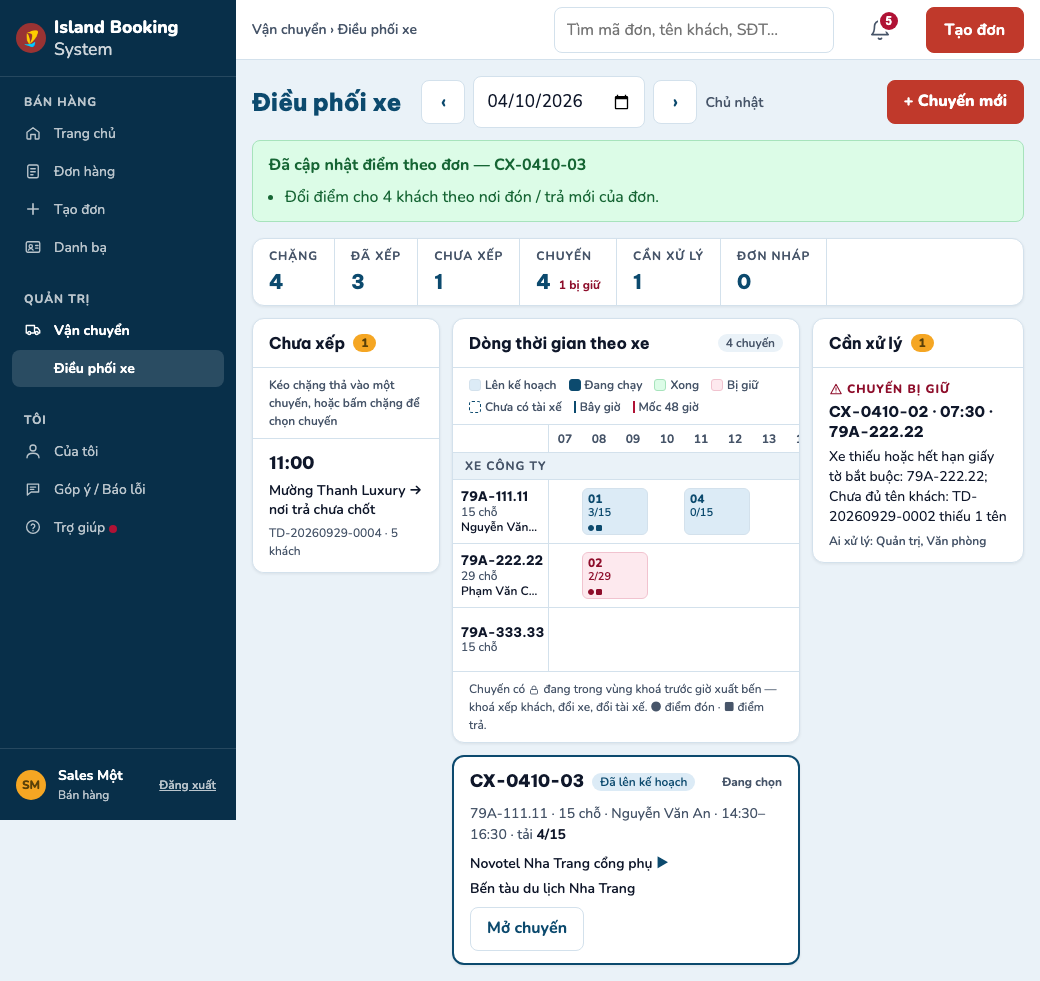
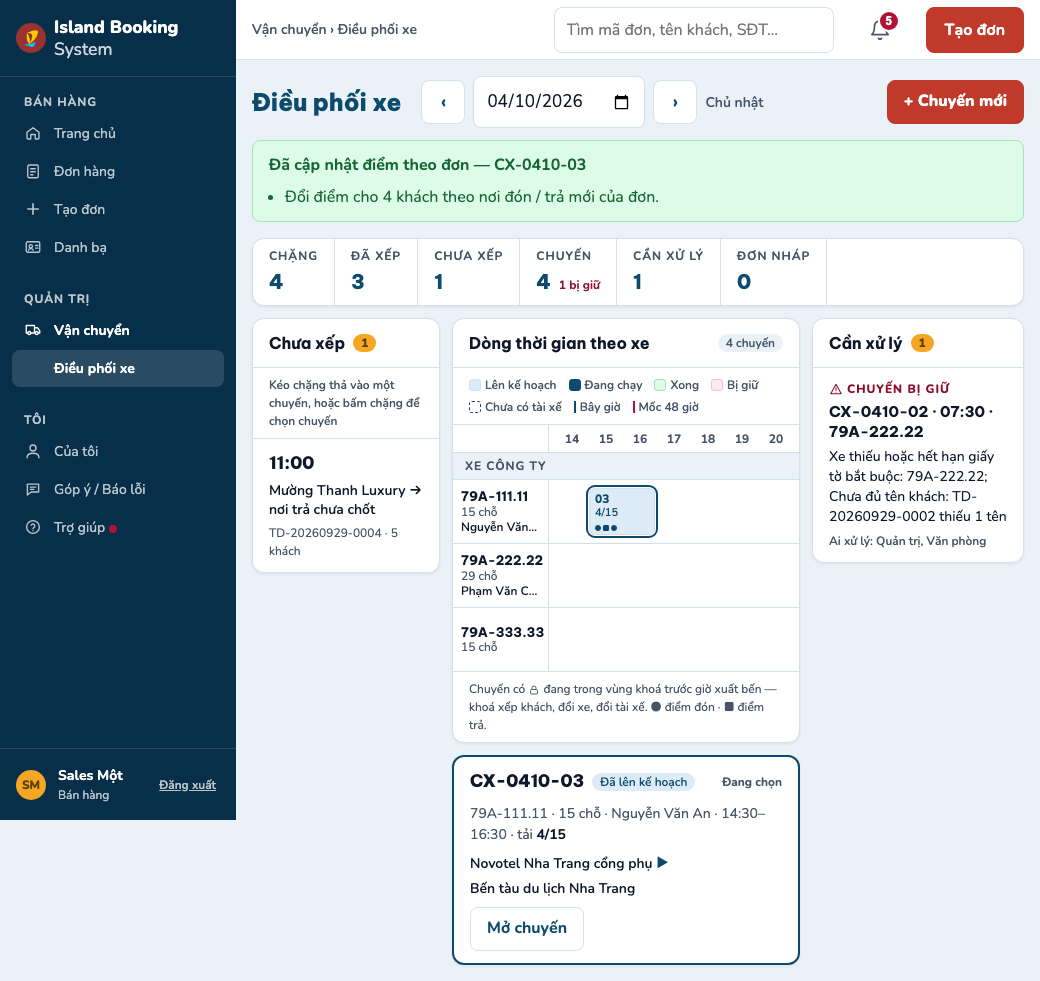
B1 sửa: dòng thời gian giữ chỗ cuộn khi vẽ lại; tài liệu vòng 3
Vì sao: bấm một khối chuyến (và sau khi xếp / cập nhật điểm) vẽ lại cột Xe rồi tự
cuộn về chuyến đầu ngày — ở 390 và ở cột giữa ~350px của khổ 1040, chuyến vừa bấm
văng khỏi khung. Kịch bản bấm bằng JS nên không thấy (người cố vấn chỉ ra).
- Giữ scrollLeft qua các lần vẽ lại; chỉ tự cuộn tới chuyến sớm nhất MỘT lần mỗi ngày
  xem, và chỉ khi khung đang hiện (thẻ "Xe" ở điện thoại thử lại lúc mở thẻ);
  focus({ preventScroll: true }).
- dieu-phoi-smoke bước 2: cuộn tới khối 14:30, bấm, khối vẫn trong khung — đỏ với
  hành vi cũ (P16), xanh sau sửa; bước 8: trang Tôi của Kế toán (VẬN CHUYỂN chỉ
  "Điều phối xe", #links-top không rỗng).
- Tài liệu: SYSTEM-DESIGN §9 (ba trang + dieu-phoi-man.ts), README bằng chứng, đề
  xuất luật mục 5 (ba dòng bảng kịch bản, số mục menu 17 / 20), nhật ký giao diện
  mục 9 (lệch bản vẽ D-B1-*, D-B2-*, câu hỏi Q-B-6…11, P16, kết quả; v1-bao-tri
  đỏ sẵn từ ADR-0019 — không do vòng 3).

Tự khai, chưa có người kiểm độc lập.

Claude-Session: https://claude.ai/code/session_012uzHHEgA3ZBQkvhnpB7ynZ

Changed region(s): [[0.5538, 0.4893, 0.7385, 0.6116], [0.5231, 0.4281, 0.6462, 0.4587], [0.7077, 0.4281, 0.7385, 0.4587]]

diff --git a/web/dieu-phoi.ts b/web/dieu-phoi.ts
@@ -134,6 +134,7 @@ function chonTab(k: typeof tab): void {
     b.tabIndex = on ? 0 : -1;
   }
   for (const id of ["chua-xep", "xe", "can-xu-ly"]) byId(`dp-cot-${id}`).classList.toggle("is-active", id === k);
+  if (k === "xe") requestAnimationFrame(cuonDau);
 }
 
 const dauCot = (tieuDe: string, n: number | null, them: Child = null) =>
@@ -175,15 +176,10 @@ function veXe(): void {
   tl.style.setProperty("--dp-so-gio", String(hinh.gioCuoi - hinh.gioDau));
   const thuoc = h("div", { class: "dp-tl-thuoc" }, h("div", { class: "dp-tl-nhan" }), h("div", { class: "dp-tl-duong" }, ...hinh.nhanGio.map((g) => viTri(h("span", { class: "dp-tl-gio" }, g.nhan), g.x))));
   append(tl, [thuoc]);
-  let dau: HTMLElement | null = null;
   for (const n of hinh.nhom) {
     append(tl, [h("div", { class: "dp-tl-nhom" }, h("span", { class: "dp-tl-nhom-t" }, n.tieuDe))]);
     for (const hang of n.hang) {
-      const duong = h("div", { class: "dp-tl-duong" }, ...hang.khoi.map((k) => {
-        const el = khoi(k);
-        dau ??= el;
-        return el;
-      }));
+      const duong = h("div", { class: "dp-tl-duong" }, ...hang.khoi.map(khoi));
       append(tl, [h("div", { class: "dp-tl-hang" }, nhanHang(hang), duong)]);
     }
   }
@@ -203,10 +199,22 @@ function veXe(): void {
     cuon,
     h("div", { class: "dp-tl-note" }, "Chuyến có ", icon("lock", 12), " đang trong vùng khoá trước giờ xuất bến — khoá xếp khách, đổi xe, đổi tài xế. ● điểm đón · ■ điểm trả."),
   );
+  // Vẽ lại (bấm khối, sau khi xếp / cập nhật) GIỮ chỗ đang cuộn; chỉ tự cuộn tới chuyến đầu tiên MỘT lần mỗi ngày xem — và chỉ khi khung đang hiện (thẻ "Xe"
+  // ở điện thoại có thể đang ẩn: thử lại lúc mở thẻ).
+  const cu = cotXe.querySelector<HTMLElement>(".dp-tl-cuon");
+  const giu = cu && daCuon === ngay ? cu.scrollLeft : null;
   replaceChildren(cotXe, the, theChon());
-  requestAnimationFrame(() => {
-    if (dau) cuon.scrollLeft = Math.max(0, dau.offsetLeft - dau.offsetWidth / 2);
-  });
+  if (giu !== null) cuon.scrollLeft = giu;
+  else requestAnimationFrame(cuonDau);
+}
+/** Ngày đã tự cuộn tới chuyến đầu tiên (null = chưa). */
+let daCuon: string | null = null;
+function cuonDau(): void {
+  const cuon = cotXe.querySelector<HTMLElement>(".dp-tl-cuon");
+  if (daCuon === ngay || !cuon || cuon.clientWidth === 0) return;
+  const dau = [...cuon.querySelectorAll<HTMLElement>(".dp-khoi")].sort((a, b) => a.offsetLeft - b.offsetLeft)[0]; // chuyến sớm nhất trong ngày
+  if (dau) cuon.scrollLeft = Math.max(0, dau.offsetLeft - dau.offsetWidth / 2);
+  daCuon = ngay;
 }
 
 function viTri(el: HTMLElement, x: number): HTMLElement {
@@ -230,7 +238,7 @@ function khoi(k: KhoiChuyen): HTMLElement {
   el.addEventListener("click", () => {
     chon = chon === k.id ? null : k.id;
     veXe();
-    document.querySelector<HTMLElement>(`.dp-khoi[data-chuyen="${k.id}"]`)?.focus();
+    document.querySelector<HTMLElement>(`.dp-khoi[data-chuyen="${k.id}"]`)?.focus({ preventScroll: true });
   });
   if (co.dieuPhoi && c.trangThai === "PLANNED") {
     el.addEventListener("dragover", (e) => {

diff --git a/docs/superpowers/plans/2026-09-29-adr-0049-giao-dien-nhat-ky.md b/docs/superpowers/plans/2026-09-29-adr-0049-giao-dien-nhat-ky.md
@@ -224,3 +224,81 @@ Chạy bằng `chay-chrome.sh` (thư mục tạm; `OUT` trỏ ra ngoài repo, `A
 Mọi kịch bản Chrome trong bảng `web/CLAUDE.md` mà Phần B chạm tới nay đều xanh trên đỉnh nhánh — không còn kịch bản "đỏ sẵn" nào trong nhóm này.
 
 **Chờ điều phối:** R-P23 ("ai lưu" trong lịch sử bản chính sách) — làm phần hiển thị khi có sha; B1–B6 khi có A13 / A15.
+
+## 9. Vòng 3 (29/9 đêm) — B1–B3 phần VĂN PHÒNG
+
+### 9.1 Lệnh điều phối (ghi nguyên ý)
+Gộp máy chủ `857f54c` (A13 `18f2a50`: chín route văn phòng lich / chuyen / chuyen/:id / PUT / phan-bo / rut / doi / huy / cap-nhat-diem, ô trip.view / dispatch / override, `nhatKy[].nguoiBam`; R-P23 `nguoiLuu`); R-P23 hiện "ai lưu" (null → không dòng); dựng B1, B2, B3 cho văn phòng theo bản vẽ + bản đối chiếu + khối thuần; menu "Vận chuyển" hiện khi `vehicle.manage` HOẶC `trip.view`, thêm "Điều phối xe" (Q-B-4). Bấm thay / "xảy ra lúc" / nút tiến độ chờ A15 — dựng chỗ, chưa nối. "Giờ hẹn đổi — gọi báo khách" + "Đã gọi báo" (ADR-0051) KHÔNG làm vòng này (Task B-GB); thẻ "Giờ xe tới muộn hơn giờ hẹn" không có nút "Đã gọi báo" (Q-GB-1 = b). Mỗi màn: Chrome đỏ trước / xanh sau, 390 + 1040, ba vai, ảnh, commit riêng. Lời nhắn sau: R-P12/13/16 đã có trong A13 — màn dùng `khoaMoc`, KHÔNG tự tính vùng khoá theo giờ hiện tại; `/chuyen/:id` có `diem[].lechDon`. Lời nhắn cuối: A15 đã có `1bf2960` — làm SAU khi B1–B3 commit sạch (mục 10). Lời nhắn sau đó: điểm gộp đổi thành `c98b0e9` (chứa `1bf2960`, e2e `370b4a2`, A14 `520ebcd`, A-GB / ADR-0051 + migration 0043); thứ tự: B1–B3 → gộp `c98b0e9` → bấm thay + B4–B6 + Q5 trang đầu tài xế → B-GB (nhắc gọi báo khách: DTO ở `src/shared/contracts.ts` + hằng chữ ở `src/shared/goi-bao.ts` của `c98b0e9`; "Đã gọi báo" chỉ khi `baoDuoc`, "Bỏ đánh dấu" chỉ khi `boDuoc`; 409 `khong_con_can_goi` / `gio_hen_vua_doi` → "Giờ hẹn vừa đổi hoặc đã có người báo — tải lại." + Tải lại; tài xế không thấy gì; không SĐT khách ở danh sách nhắc; Chrome ba vai; P16 bỏ điều kiện `baoDuoc` → bước Kế toán đỏ). Điều phối hỏi trạng thái B1: commit `8666fa4`.
+
+### 9.2 Commit
+| Việc | Commit |
+|---|---|
+| Gộp máy chủ `857f54c` | `61c53be` |
+| R-P23 "ai lưu" | `8764a88` |
+| B3 Tạo / sửa chuyến (+ khối thuần `dieu-phoi-man.ts`, khối UI chung `web/dieu-phoi-ui.ts`, dữ liệu thử `dungDuLieuDieuPhoi`) | `7037b7d` |
+| B2 Chi tiết chuyến | `ca73650` |
+| B1 Điều phối xe + menu (Q-B-4) + sửa kịch bản cũ theo menu | `8666fa4` |
+| B1 sửa: khung dòng thời gian nhảy về chuyến đầu ngày mỗi lần vẽ lại (bấm khối, sau khi xếp / cập nhật) + ca Chrome; trang Tôi của Kế toán; tài liệu vòng 3 | commit "B1 sửa: …" ngay sau `8666fa4` |
+
+### 9.3 Lệch bản vẽ / giả định bề mặt (P8 — đảo ngược được)
+- **D-B2-1** (Chi tiết chuyến): bảng điểm dừng 7 cột của 2a (28 / 44 / 1fr / 60 / 72 / 48 / 118 px) cạnh cột phải 280px chỉ còn ~24px cho cột NƠI ở khổ 1040 (đo trên ảnh lần chạy đầu: tên nơi gãy từng chữ). Dưới 1200px hai thẻ "Điều kiện xuất bến" + "Nhật ký chuyến" xuống dưới bảng (xếp đôi); từ 1200px đúng bố cục 2a. Hoàn tác: một khối `@media` trong `public/app.css`.
+- **D-B1-1** (dòng thời gian): KHÔNG tô "vùng nền nhạt từ bây giờ tới mốc" của bản vẽ — lệnh điều phối "không tự tính vùng khoá theo giờ hiện tại". Khối chuyến mang ổ khoá theo `khoaMoc.dangKhoa`; vạch "Bây giờ" và vạch mốc (R-P12) vẫn vẽ để nhìn; câu chú thích đổi thành "Chuyến có 🔒 đang trong vùng khoá…".
+- **D-B1-2**: thẻ chặng là NÚT mở hộp "Xếp vào chuyến" (chọn chuyến lên kế hoạch theo giờ, số khách — ít hơn là tách đoàn), máy tính thêm kéo thả vào khối chuyến (mở cùng hộp, chuyến đã chọn sẵn). Bản vẽ chỉ có câu "Kéo chặng thả vào một chuyến" và nút "Xếp vào chuyến…" ở điện thoại, không vẽ hộp — dựng theo khuôn hộp Phá lệ (1f). Câu gợi ý đổi thành "Kéo chặng thả vào một chuyến, hoặc bấm chặng để chọn chuyến".
+- **D-B1-3**: đầu cột "Cần xử lý" không có nhãn vai ("Quản trị") — đó là chú thích so vai của bản vẽ.
+- **D-B1-4**: mục menu "Điều phối xe" không có huy hiệu số (bản vẽ: 8) — máy chủ chưa có nguồn số (Q-B-10).
+- **D-B1-5**: vị trí khối trên dòng thời gian đặt bằng biến CSS KHÔNG đơn vị (`--dp-x`, `--dp-dai`, `--dp-so-gio` qua `style.setProperty`) — mọi số đo là token (`--dp-gio` 34px / giờ, `--w-dp-tl-nhan` 96px, `--h-dp-tl-hang` 64px…).
+- **D-B1-6**: giữ tiêu đề trang (h1) ở điện thoại (bản vẽ chỉ có tên ở thanh trên) — như B2 / B3 và mọi trang khác.
+- **D-B2-2**: nút Sửa / Huỷ ở điện thoại là lưới hai cột CUỐI trang (bản vẽ 2b), không dính đáy.
+- **B3**: không ô "Ghi chú cho tài xế" (chủ Q1). Câu "cần phá lệ" mốc gắn vào ô đang đổi (Xe trước, rồi Tài xế); tạo mới / dời giờ không bao giờ cần phá lệ mốc (máy chủ quyết — 2.2, 2.3; bước 7 của `chuyen-sua-smoke` khẳng định dời giờ lưu được).
+- **Cần xử lý**: cảnh báo "nơi hẹn khác điểm" của chuyến CHƯA chạy đã bị giữ "nơi đón / trả đã đổi" không thành mục thứ hai (mục chuyến bị giữ đã nói và có nút) — test thuần mới; máy chủ trả cảnh báo này cả cho chuyến PLANNED (thấy khi dò).
+- **Trang Tôi** (Bán hàng, Kế toán): nay có nhóm VẬN CHUYỂN với một dòng "Điều phối xe" — "Danh bạ" chuyển từ `#links` sang `#links-top` như tài khoản Quản trị (khuôn sẵn của 1a).
+
+### 9.4 Chờ A15 — KHÔNG dựng ở vòng này (không để nút chết)
+B2: "Xuất bến thay tài xế", nút tiến độ bấm thay (ô "xảy ra lúc", "Sớm nhất: HH:MM"), "Kết thúc gián đoạn", "Mở màn Xuất bến ›". B1: thẻ chuyến đang chạy (mốc tiến độ, "giờ do văn phòng khai"). Màn chuyến RUNNING / ENDED chưa kiểm được bằng Chrome (dữ liệu thử không chạy chuyến được khi chưa có route A15). Nhánh hiển thị đã có sẵn: dải "Nơi hẹn khác điểm xe" của chuyến đang chạy (B2), "Bản chụp lúc xuất bến", chip "giờ do văn phòng khai" trong nhật ký.
+
+### 9.5 Câu hỏi cho điều phối
+- **Q-B-6**: rút khách (`/rut`), dời khách sang chuyến khác (`/doi`), người đi kèm (`nguoiDiKem`), sắp lại thứ tự điểm / giờ xe tới (`SuaChuyenRequest.diem`) — bản vẽ không vẽ chỗ bấm → CHƯA dựng. Cần bản vẽ, hay dựng theo khuôn sẵn?
+- **Q-B-7**: `TaiXeChonDto` không có hạng GPLX → ô Tài xế không hiện "· hạng D" như bản vẽ 3a; lỗi hạng chỉ hiện sau khi lưu (409). Thêm trường vào DTO?
+- **Q-B-8**: `ChangLichDto` không có cờ "nơi tự gõ" → không hiện được "Nơi tự gõ — mở đơn để xem" (bản vẽ 1a); màn hiện chữ máy chủ trả (đã che dãy số). Giữ vậy?
+- **Q-B-9**: "Chưa có tài xế" — `POST /chuyen` bắt buộc tài xế, nên trạng thái này chỉ có khi tài xế bị gỡ về sau; nhánh hiển thị + nút "Chọn tài xế" đã dựng, chưa kiểm được bằng Chrome.
+- **Q-B-10**: huy hiệu số ở mục "Điều phối xe" (bản vẽ: 8) — cần nguồn số từ máy chủ; chưa làm.
+- **Q-B-11**: hộp "Xếp vào chuyến" (D-B1-2) không có trong bản vẽ — chủ có muốn vẽ lại không?
+
+### 9.6 P16 — quan sát kịch bản mới đỏ thật một lần
+| Kịch bản | Sửa cố ý (build lại) | Đỏ quan sát được | Hoàn nguyên |
+|---|---|---|---|
+| `chuyen-sua-smoke.mjs` | `dieu-phoi-man.ts`: bỏ `TRUNG_GIO_XE` khỏi nhóm ô Giờ kết thúc | bước 3 ✗ ("hết giờ chờ: dải 2 ô"), 11 ✓ / 1 ✗, thoát 1 | sửa lại dòng, `grep -c P16-DOT-BIEN` = 0, build lại |
+| `chuyen-smoke.mjs` | `nhanDiem`: tắt nhánh `lechDon` | bước 1 ✗ (điểm không "Lệch đơn"), 7 ✓ / 1 ✗, thoát 1 | như trên |
+| `dieu-phoi-smoke.mjs` | `thayDieuPhoiXe` hỏi `vehicle.manage` thay `trip.view` | Bán hàng bị từ chối, bảng không dựng → thoát 1. Lần đó chờ "bảng dựng xong" nằm NGOÀI bước nên dòng tổng ghi "OK (0 bước)" dù thoát 1 — đã chuyển mọi lần chờ vào trong bước | như trên |
+| `dieu-phoi-smoke.mjs` bước 2 (ca mới: khung cuộn giữ chỗ) | `web/dieu-phoi.ts`: bỏ giữ `scrollLeft` (hành vi cũ — luôn cuộn về chuyến đầu ngày) | bước 2 ✗ "sau khi bấm (vẽ lại), khối vừa chọn vẫn trong khung", 9 ✓ / 1 ✗, thoát 1 | như trên |
+
+Lỗi thật tìm ra nhờ người cố vấn (không phải kịch bản): bấm một khối gọi vẽ lại cột Xe → khung cuộn dựng mới rồi `requestAnimationFrame` kéo về chuyến đầu ngày — ở 390 và ở cột giữa ~350px của khổ 1040, bấm chuyến 14:30 là chuyến đó văng khỏi khung; kịch bản bấm bằng JS nên không thấy. Sửa: giữ `scrollLeft` qua các lần vẽ lại, chỉ tự cuộn một lần mỗi ngày xem (và chỉ khi khung đang hiện — thẻ "Xe" ở điện thoại thử lại lúc mở thẻ); `focus({ preventScroll: true })`.
+
+### 9.7 Kịch bản cũ sửa theo menu mới (B1, Q-B-4)
+`trang-chu-smoke.mjs` (Quản trị 17 mục — `ADMIN_NAV` thêm "Điều phối xe"; khung `/staff`, `/order-form` 17; `/audit` Toàn quyền 20); `xe-smoke.mjs` bước 1 (mục con đầu "Điều phối xe"), 2 (dòng "Điều phối xe" đầu nhóm VẬN CHUYỂN của trang Tôi), 3 (Bán hàng nay có mục cha + đúng một mục con / một dòng "Điều phối xe", vẫn không Xe / Sắp hết hạn, không gọi `/api/van-chuyen` ở trang Tôi); `danh-muc-giay-to-smoke.mjs` bước c, d (thêm "Điều phối xe"), j (Bán hàng: nhóm QUẢN TRỊ chỉ "Vận chuyển › Điều phối xe"); `chinh-sach-dieu-phoi-smoke.mjs` bước 1 (Toàn quyền: "Điều phối xe" đầu), 12 (Bán hàng: `["Điều phối xe"]`). Kịch bản tài xế (`tai-xe-trang-dau-smoke`, `tai-xe-doi-tac-smoke`) không đổi: tài xế không có ô trip.view không ngữ cảnh.
+
+**Đỏ sẵn, KHÔNG do vòng 3, không sửa (ngoài phạm vi — báo điều phối):** `docs/evidence/2026-09-21-v1-0/kich-ban/v1-bao-tri.mjs` 15 bước ✗ từ bước đầu ("hết giờ chờ: mục bảo trì hiện"). Nguyên nhân gốc: kịch bản dùng `OWNER = ACCOUNTS.admin` (chỉ ADMIN) làm "chủ", còn `canToggle` của `GET /api/maintenance` từ ADR-0019 / ADR-0038 (26–27/9) cần ô `settings.ops` (chỉ Toàn quyền) — `src/modules/maintenance/index.ts:46`. `dot-c-smoke.mjs` đã đổi sang tài khoản ADMIN + SUPER_ADMIN vì đúng lý do này (chú thích dòng 20 của nó). Vòng 3 không đụng phần bảo trì của `web/account.ts` / `web/shell.ts`. Sửa = đổi `OWNER` sang tài khoản có SUPER_ADMIN (như `dot-c-smoke`) — chờ điều phối giao.
+
+### 9.8 Kết quả cuối vòng 3 (tự khai, chưa có người kiểm độc lập)
+| Lệnh | Kết quả |
+|---|---|
+| `node --test src/shared/dieu-phoi-man.test.ts` | 19/19 (13 của B3 + 6 mới của B1, đỏ trước xanh sau) |
+| `npm run typecheck` | 0 |
+| `npm run build:web` | 0 |
+| quét CSS khối PWA (biểu thức của `tests/e2e/pwa.mjs`) | sạch |
+| `chuyen-sua-smoke.mjs` | 12/12 |
+| `chuyen-smoke.mjs` | 8/8 |
+| `dieu-phoi-smoke.mjs` | xem dòng chạy lại sau sửa khung cuộn (mục 9.9) |
+| lô hồi quy (trên `8666fa4`): `trang-chu-smoke`, `chinh-sach-dieu-phoi-smoke`, `dot-c-smoke`, `help-smoke`, `tai-xe-trang-dau-smoke`, `tai-xe-doi-tac-smoke`, `giay-to-cua-toi-smoke`, `sap-het-han-smoke`, `dieu-phoi-smoke`, `chuyen-smoke`, `chuyen-sua-smoke` | thoát 0 cả 11 |
+| cùng lô: `xe-smoke`, `danh-muc-giay-to-smoke` | thoát 1 — đỏ ĐÚNG ở các bước lúc đó chưa sửa theo menu mới (`xe-smoke` bước 1: mục con "Điều phối xe" chen trước "Xe"; `danh-muc-giay-to-smoke` bước d như vậy, bước j: Bán hàng nay có nhóm QUẢN TRỊ); đã sửa trong `8666fa4`, chạy lại ở mục 9.9 |
+| cùng lô: `v1-bao-tri.mjs` | thoát 1 — đỏ sẵn, xem trên |
+
+### 9.9 Chạy lại sau sửa khung cuộn + trang Tôi Kế toán (đỉnh trước khi gộp máy chủ)
+| Lệnh | Kết quả |
+|---|---|
+| `dieu-phoi-smoke.mjs` | 10/10 (bước 2 có ca khung cuộn giữ chỗ; bước 8 có trang Tôi của Kế toán) |
+| `xe-smoke.mjs` | 13/13 |
+| `danh-muc-giay-to-smoke.mjs` | 10/10 |
+| `npm run test:e2e -- pwa` | 2/2 — "29 trang" |
+| `npm test` | 1758/1759 — bài đỏ DUY NHẤT là `guard-remote: lệnh dị dạng không làm hook quá giờ` (đo thời gian của hook; máy đang có phiên khác chạy). Chạy riêng `node --test src/claude-guard.test.ts`: 11/11 (đúng như điều phối báo — bài đo CPU khi máy bận) |
+| `npm run typecheck` | 0 |

diff --git a/docs/evidence/2026-09-29-adr-0049/README.md b/docs/evidence/2026-09-29-adr-0049/README.md
@@ -4,7 +4,7 @@
 - **Người chụp:** người thi công Phần B (chưa phải kiểm độc lập). Mọi SĐT, tên, biển số là **GIẢ**.
 - **Giới hạn:** Chrome headless trên máy phát triển (390×844 giả lập cảm ứng, 1040×820), D1 tạm, không mạng ngoài. **Chưa thử iPhone thật**, chưa thử dữ liệu thật trên production.
 - **Nhật ký thi công giao diện** (đỏ trước, xanh sau, P16 từng kịch bản, lệch bản vẽ, câu hỏi): `docs/superpowers/plans/2026-09-29-adr-0049-giao-dien-nhat-ky.md`.
-- **Chưa có:** B1–B6 (Điều phối xe, Chi tiết chuyến, Tạo / sửa chuyến, Cuốc của tôi, Chuyến đang chạy, Xuất bến) — chờ route A13 / A15 của máy chủ.
+- **Đã có (vòng 3):** B1 Điều phối xe, B2 Chi tiết chuyến, B3 Tạo / sửa chuyến — phần VĂN PHÒNG. **Chưa có:** bấm thay / nút tiến độ / kết thúc gián đoạn trên B2 (chờ A15), B4–B6 (Cuốc của tôi, Chuyến đang chạy, Xuất bến), mục "Giờ hẹn đổi — gọi báo khách" (ADR-0051, Task B-GB).
 
 ## Cách chạy
 
@@ -23,9 +23,12 @@ AXE_JS=<…/axe.min.js> CHROME_BIN=docs/evidence/2026-09-20-a2/kich-ban/chrome-w
 | `chinh-sach-dieu-phoi-smoke.mjs` | B8 — V13 | 14 | Toàn quyền 1040: bốn ô theo bản gieo (giờ / phút), công tắc đủ danh sách bật, hợp đồng khoá tắt, hai điều kiện gieo "Kiểm định — mọi xe", "Bảo hiểm trách nhiệm dân sự — mọi xe", không ô ngày, không "Đang soạn" (chủ Q3), thanh bên có "Chính sách điều phối" + "Lý do điều phối", không "Điều phối xe"; ô ngoài khoảng (F 1–1440, mốc 0 / 49 giờ) → câu lời thường, không gửi; không đổi gì → không lưu; lưu bản mới → thân đúng năm khoá theo phút, lịch sử hai bản khác nhau ở ô F; trang Điều kiện xuất bến (thêm / đóng điều kiện, đổi hạng D1); 390 (lịch sử trong bảng trượt, nút dính đáy, ô ≥ 16px); trang Tôi hai dòng mới; Quản trị: năm nhóm lý do (không "Đặt gấp", "Bỏ chặng"), thêm (mã sinh từ nhãn, trùng → hậu tố), sửa, ngưng; mở thẳng trang chính sách → câu từ chối; 390 "đang thêm" (đếm /80); Bán hàng không có mục nào, mở thẳng bị từ chối; R-P22: lý do hệ thống "Không còn khách ở điểm" không có nút "Ngưng" (có ghi chú), trang giả lập dữ liệu cũ bấm Ngưng → 409 `ly_do_he_thong` → câu lời thường (bước 9b); axe; không lỗi console |
 | `dat-gap-smoke.mjs` | B7 — V12 | 12 | Mốc đặt 48 giờ bằng route chính sách (chặng đón ngày mai luôn dưới mốc). Bán hàng: biểu mẫu CHƯA lưu gọi `GET /api/orders/moc-toi-thieu`, dải cảnh báo 7b, đổi ngày thì hết / hiện lại; lưu nháp được; trang đơn khoá "Xác nhận đơn" + "Cần Quản trị duyệt đặt gấp"; 409 khi trang cũ → dải "Còn chặng đón dưới mốc…" có dòng từng chặng; đơn đã đặt gấp: nhãn ĐỦ (văn phòng — H4); sửa chuyến dưới mốc → 409, không khung. Quản trị: nút + khung Đặt gấp (bốn lý do từ `LY_DO_DAT_GAP`, thiếu lý do → câu lỗi, ghi chú /120), duyệt → nhãn 7c, xác nhận được; sửa chuyến dưới mốc → khung trong bảng, gửi lại kèm `datGap`; biểu mẫu CHƯA lưu (390) "Duyệt đặt gấp" = lưu nháp rồi đặt gấp. Đối tác: chỉ "Đặt gấp — Quản trị đã duyệt" ở khối dịch vụ; **bước 10b — bài canh R-P21**: Lịch sử đơn của Đối tác không có nhãn lý do / tên người duyệt (đỏ thật trước khi gộp máy chủ `df32e83`, xanh sau). axe; không lỗi console |
 | `moc-chua-co-smoke.mjs` | B7 — 503 | 6 | "Chưa có chính sách" dựng trên D1 TẠM của kịch bản (DROP TRIGGER + DELETE bảng chính sách — không sửa máy chủ): biểu mẫu không cảnh báo mốc, Lưu nháp có giờ đón → 503 → dải đỏ câu máy chủ + dòng việc cần làm; trang đơn không khoá Xác nhận, bấm → 503 (1040 + 390); bảng sửa chuyến → 503, không khung Đặt gấp; Toàn quyền lưu bản chính sách đầu tiên từ trạng thái rỗng → mọi thứ chạy lại |
+| `chuyen-sua-smoke.mjs` | B3 — V3 | 12 | Dữ liệu thử chung `dungDuLieuDieuPhoi` (`dp-lib.mjs`: 3 xe, 3 tài xế, 5 đơn, 4 chuyến, mốc 48 giờ — mọi thứ qua route thật). Bán hàng 1040: tiêu đề "Chuyến mới · dd/mm", bốn ô (KHÔNG ô ghi chú — Q1), xe bảo dưỡng không chọn được, tài xế theo nhóm; Lưu khi trống → bốn câu dưới bốn ô, không gửi; 3a: hạng bằng dưới Tài xế + trùng giờ dưới Giờ kết thúc + cột phải tô đỏ chuyến trùng; nghỉ thiếu → câu dưới Giờ bắt đầu, không hộp phá lệ; tạo được → sang chi tiết; chuyến đang khoá: đổi tài xế → câu "cần Quản trị phá lệ", dời giờ thì lưu được (2.3), "Chưa đổi gì"; 390 một cột + nút dính đáy. Quản trị 390 (3b): đổi tài xế chuyến đang khoá → hộp "Phá lệ" → gửi lại kèm `phaLe` (requestId mới); 1040: nghỉ thiếu → `nghiPhaLe`. Kế toán: câu từ chối, không gọi API. axe; không lỗi console |
+| `chuyen-smoke.mjs` | B2 — V2 | 8 | Bán hàng 1040: chuyến bị giữ "nơi đón / trả đã đổi" (dải + nút, dải bốn ô, điểm "Lệch đơn", điều kiện xuất bến "1 chưa đạt" kèm ai xử lý, nhật ký; KHÔNG nút chờ A15); chuyến bị người khác sửa → câu chung + "Tải lại" (H10) → cập nhật được, hết "Lệch đơn"; huỷ chuyến 3 khách → khách về "Chưa xếp" (2.12); chuyến đang khoá có khách → Bán hàng thấy câu "cần Quản trị phá lệ" (H17). 390: dòng tóm tắt, điểm dạng vòng số, nút cuối trang. Quản trị: huỷ chuyến đang khoá → hộp Phá lệ → gửi lại kèm `phaLe`, nhật ký có "phá lệ: …". Kế toán: không nút nào. axe; không lỗi console |
+| `dieu-phoi-smoke.mjs` | B1 — V1 | 10 | Bán hàng 1040: đầu trang, dải số liệu, ba cột, menu "Vận chuyển › Điều phối xe" (chỉ một mục con), không nút Gọi / Đã gọi báo / Phá lệ; bấm khối → thẻ đang chọn + "Cập nhật điểm theo đơn"; bấm thẻ chặng → hộp "Xếp vào chuyến" (chỉ chuyến lên kế hoạch, theo giờ), tách đoàn 3/5; kéo thả phần còn lại vào khối chuyến (DragEvent + DataTransfer); ngày trong vùng khoá: "Quá mốc" + dòng khoá, khối có ổ khoá theo `khoaMoc`, xếp → câu "cần Quản trị phá lệ". 390: trang Tôi có dòng "Điều phối xe"; ba thẻ (tablist, phím mũi tên), dòng thời gian cuộn ngang trong thẻ. Quản trị: menu đủ mục, xếp vào chuyến đang khoá → hộp Phá lệ → `phaLe`. Kế toán: "Chỉ xem", không nút, thẻ chọn chỉ "Mở chuyến". axe; không lỗi console |
 | `nhat-ky-loc-smoke.mjs` | (Phần A) | — | bộ lọc Nhật ký nhóm "Điều phối xe" — của người thi công máy chủ |
 
-Kịch bản cũ đã sửa theo Phần B: `docs/evidence/2026-09-28-van-chuyen-1a/kich-ban/xe-smoke.mjs` (bước 2) và `danh-muc-giay-to-smoke.mjs` (bước c) — nhóm VẬN CHUYỂN của Quản trị có thêm "Lý do điều phối"; `docs/evidence/2026-09-23-trang-chu-moi/kich-ban/trang-chu-smoke.mjs` — vòng 2 làm xanh: xác nhận đơn đón hôm nay qua đường Quản trị đặt gấp (ADR-0049), "Cần xem lại" của Quản trị chỉ dòng Sheet (ADR-0038), thanh bên Quản trị đếm THẬT 16 mục + đúng danh sách nhãn, `/audit` mở bằng Quản trị + Toàn quyền. Cùng vòng: `dot-c-smoke.mjs` (thêm `#push` — ADR-0036), `v1-nguoi-phu-trach.mjs` bước (b) (giao lần đầu cho chính mình = "Tự nhận phụ trách đơn" — ADR-0034 §4.3), `a2-smoke-form.mjs` bước 10g (chờ `#catalog-q`). Nguyên nhân gốc từng cái: nhật ký giao diện mục 8.1.
+Kịch bản cũ đã sửa theo Phần B: `docs/evidence/2026-09-28-van-chuyen-1a/kich-ban/xe-smoke.mjs` (bước 2) và `danh-muc-giay-to-smoke.mjs` (bước c) — nhóm VẬN CHUYỂN của Quản trị có thêm "Lý do điều phối"; `docs/evidence/2026-09-23-trang-chu-moi/kich-ban/trang-chu-smoke.mjs` — vòng 2 làm xanh: xác nhận đơn đón hôm nay qua đường Quản trị đặt gấp (ADR-0049), "Cần xem lại" của Quản trị chỉ dòng Sheet (ADR-0038), thanh bên Quản trị đếm THẬT 16 mục + đúng danh sách nhãn, `/audit` mở bằng Quản trị + Toàn quyền. Cùng vòng: `dot-c-smoke.mjs` (thêm `#push` — ADR-0036), `v1-nguoi-phu-trach.mjs` bước (b) (giao lần đầu cho chính mình = "Tự nhận phụ trách đơn" — ADR-0034 §4.3), `a2-smoke-form.mjs` bước 10g (chờ `#catalog-q`). Nguyên nhân gốc từng cái: nhật ký giao diện mục 8.1. Vòng 3 (B1 thêm mục "Điều phối xe", Q-B-4): `trang-chu-smoke.mjs` (Quản trị 17 mục, `/audit` 20), `xe-smoke.mjs` bước 2 (dòng "Điều phối xe" đầu nhóm VẬN CHUYỂN) và bước 3 (Bán hàng nay có nhóm Vận chuyển chỉ với "Điều phối xe"), `danh-muc-giay-to-smoke.mjs`, `chinh-sach-dieu-phoi-smoke.mjs` bước 1 và 12 — nhật ký giao diện mục 9.
 
 ## Ảnh (`anh/`)
 
@@ -33,4 +36,7 @@ Kịch bản cũ đã sửa theo Phần B: `docs/evidence/2026-09-28-van-chuyen-
 - B8 (R-P22): `b8-ly-do-he-thong-409-may-tinh.png`.
 - B7 (503): `b7-503-bieu-mau-may-tinh.png`, `b7-503-don-may-tinh.png`, `b7-503-don-dien-thoai.png`, `b7-503-sua-chuyen-may-tinh.png`.
 - B7: `b7-bieu-mau-ban-hang-may-tinh.png`, `b7-don-ban-hang-may-tinh.png`, `b7-don-ban-hang-dien-thoai.png`, `b7-dat-gap-quan-tri-may-tinh.png`, `b7-da-dat-gap-quan-tri-may-tinh.png`, `b7-sua-chuyen-dat-gap-may-tinh.png`, `b7-bieu-mau-dat-gap-quan-tri-dien-thoai.png`, `b7-da-dat-gap-dien-thoai.png`, `b7-don-doi-tac-dien-thoai.png`.
+- B3: `b3-tao-chuyen-ba-loi-may-tinh.png`, `b3-sua-chuyen-dien-thoai.png`, `b3-pha-le-dien-thoai.png`, `b3-pha-le-nghi-may-tinh.png`.
+- B2: `b2-chi-tiet-bi-giu-may-tinh.png`, `b2-chi-tiet-sau-cap-nhat-may-tinh.png`, `b2-huy-chuyen-may-tinh.png`, `b2-chi-tiet-bi-giu-dien-thoai.png`, `b2-huy-pha-le-may-tinh.png`, `b2-chi-tiet-ke-toan-may-tinh.png`.
+- B1: `b1-dieu-phoi-ban-hang-may-tinh.png`, `b1-dieu-phoi-chon-chuyen-may-tinh.png`, `b1-xep-vao-chuyen-may-tinh.png`, `b1-dieu-phoi-chua-xep-dien-thoai.png`, `b1-dieu-phoi-xe-dien-thoai.png`, `b1-dieu-phoi-can-xu-ly-dien-thoai.png`, `b1-pha-le-xep-may-tinh.png`, `b1-dieu-phoi-quan-tri-may-tinh.png`, `b1-dieu-phoi-ke-toan-may-tinh.png`.
 - Ảnh cả trang ở 1040 có thanh bên dính lệch chỗ — hiện tượng của cách chụp kéo dài trang (`captureBeyondViewport`), không phải lỗi bố cục.

diff --git a/docs/SYSTEM-DESIGN.md b/docs/SYSTEM-DESIGN.md
@@ -748,6 +748,9 @@ Sáu cột quyền cũ ở trên (`SALES`/`ACCOUNTING`/`ADMIN`/`FIELD`/`PARTNER`
 | Chính sách điều phối | `public/chinh-sach-dieu-phoi.html` | `web/chinh-sach-dieu-phoi.ts` | `GET/POST /api/van-chuyen/chinh-sach-dieu-phoi` (bản mới hiệu lực ngay khi lưu; hai ô theo giờ đổi ra phút), `GET /api/van-chuyen/dieu-kien` (chip điều kiện đang áp), `GET /api/parties/documents/meta` (chỉ khi có điều kiện giấy tờ tài xế); lịch sử bản ở cột phải / bảng trượt (điện thoại) — ADR-0049 B8, bản vẽ `docs/design/van-chuyen-dieu-phoi/project/08` | chỉ `can(staff, "settings.ops")` (Toàn quyền); cổng `office` |
 | Điều kiện xuất bến | `public/dieu-kien-xuat-ben.html` | `web/dieu-kien-xuat-ben.ts` | `GET/POST /api/van-chuyen/dieu-kien`, `POST …/dieu-kien/:id/dong`, `GET/POST /api/van-chuyen/hang-bang`, `GET /api/van-chuyen/meta`, `GET /api/parties/documents/meta` (khuôn danh mục, không bản vẽ; mở từ trang Chính sách điều phối) | chỉ `settings.ops`; cổng `office` |
 | Lý do điều phối | `public/ly-do-dieu-phoi.html` | `web/ly-do-dieu-phoi.ts` | `GET/POST /api/van-chuyen/ly-do`, `PUT /api/van-chuyen/ly-do/:code` (mã lý do mới SINH từ nhãn, trùng → hậu tố) — bản vẽ 08 khung 8c / 8d | `admin.manage` (Quản trị, Toàn quyền); cổng `admin` |
+| Điều phối xe | `public/dieu-phoi.html` | `web/dieu-phoi.ts` (khối chung `web/dieu-phoi-ui.ts`) | `GET /api/van-chuyen/lich?ngay=` (một lần mỗi ngày xem), `POST …/chuyen/:id/phan-bo` (hộp "Xếp vào chuyến": chọn chuyến lên kế hoạch + số khách — ít hơn = tách đoàn; kéo thả thẻ chặng vào khối chuyến mở cùng hộp), `POST …/chuyen/:id/cap-nhat-diem`; 409 `can_pha_le` + `canQuyen` → hộp "Phá lệ" (không nút "Phá lệ" đứng riêng). Ba cột Chưa xếp / Dòng thời gian theo xe (+ thẻ chuyến đang chọn) / Cần xử lý ở máy tính (≥ 900px), ba thẻ ở điện thoại. Khoá theo `khoaMoc` từng chuyến; vạch mốc chỉ để nhìn — ADR-0049 B1, bản vẽ `docs/design/van-chuyen-dieu-phoi/project/01` | `thayDieuPhoiXe` = `can(staff, "trip.view")` (Bán hàng, Kế toán, Quản trị, Toàn quyền; tài xế không); nút xếp theo `trip.dispatch` (Kế toán chỉ xem); cổng `office` |
+| Chi tiết chuyến | `public/chuyen.html` | `web/chuyen.ts` | `GET /api/van-chuyen/chuyen/:id`, `POST …/cap-nhat-diem`, `POST …/huy` (hộp Huỷ chuyến; trong vùng khoá còn khách → hộp Phá lệ); điểm "Lệch đơn" theo cờ `lechDon`, điều kiện xuất bến từ lý do giữ, nhật ký chuyến. CHƯA có (chờ A15): xuất bến thay, nút tiến độ bấm thay, kết thúc gián đoạn — ADR-0049 B2, bản vẽ 02 | `trip.view`; nút Sửa / Huỷ / Cập nhật điểm theo `trip.dispatch`; cổng `office` |
+| Tạo / sửa chuyến | `public/chuyen-sua.html` | `web/chuyen-sua.ts` | `GET /api/van-chuyen/chuyen/:id` hoặc `GET /api/van-chuyen/lich?ngay=` (danh sách xe, tài xế, lý do + cột "<biển số> trong ngày"), `POST /api/van-chuyen/chuyen`, `PUT /api/van-chuyen/chuyen/:id` (chỉ ô đã đổi + `version`); 409 → câu dưới đúng ô (`truongLoiChuyen`); phá lệ mốc / khoảng nghỉ qua hộp Phá lệ khi `canQuyen` — ADR-0049 B3, bản vẽ 03 | `trip.dispatch` (Bán hàng, Quản trị, Toàn quyền); cổng `office` |
 | Địa điểm | `public/locations.html` | `web/locations.ts` | `/api/locations` | admin |
 | Dịch vụ | `public/catalog.html` | `web/catalog.ts` | `/api/catalog/admin`, `/api/catalog/sync`, `/api/catalog/:code*` | admin |
 | Nhân viên | `public/staff.html` | `web/staff.ts` | `/api/staff*` (cột "Đăng nhập gần nhất": `lastLoginAt`, "Chưa đăng nhập" khi `null`) | admin |
@@ -786,6 +789,7 @@ Sáu cột quyền cũ ở trên (`SALES`/`ACCOUNTING`/`ADMIN`/`FIELD`/`PARTNER`
 | `chinh-sach-hien-thi.ts` | hiển thị V13 (ADR-0049 B8): giờ ↔ phút của form chính sách (`docFormChinhSach`, câu lỗi theo đơn vị của ô), tóm tắt / lịch sử bản, nhãn điều kiện xuất bến, năm nhóm lý do lượt 1, mã lý do sinh từ nhãn (`maLyDoMoi`) |
 | `dat-gap-hien-thi.ts` | hiển thị V12 (ADR-0049 B7): câu mốc "Giờ đón cách bây giờ … — dưới mốc …", nhãn đặt gấp theo khoá DTO (`nhanDatGap`), chặng nháp còn phải đặt gấp (`changDuoiMoc` — dùng `kiemMocDat`), cảnh báo trên biểu mẫu chưa lưu, thân lệnh đặt gấp (`LY_DO_DAT_GAP`, ghi chú ≤ 120) |
 | `dieu-phoi-hien-thi.ts` | chữ dùng sẵn cho B1–B6 (CHƯA nối trang): hai giờ "07:31 · ghi lúc 07:45 — Hoa", "Sớm nhất: HH:MM", câu từ chối theo mã `kiemGioXayRa`, dòng điều kiện màn tài xế "(văn phòng lo)", "Ai xử lý: …" |
+| `dieu-phoi-man.ts` | luật hiển thị ba màn văn phòng B1–B3 (ADR-0049): thẻ chặng + cột Chưa xếp (`chipChang`, `changChuaXep`), dải số liệu, màu / nhãn chuyến (`kieuChuyen`), cột "Cần xử lý" (`viecCanXuLy` — chỉ nhãn DTO, nút theo cờ quyền, không "Gọi tài xế" / "Đã gọi báo"), hình dòng thời gian (`hinhDongThoiGian` — khoảng giờ theo dữ liệu, cờ khoá từ `khoaMoc`), câu khoá (`cauKhoaMoc`), điều kiện xuất bến, điểm dừng, nhật ký chuyến, 409 → ô (`truongLoiChuyen`), `requestId` lặp lại sau mất mạng (`idChoLenh`), cổng mục menu `thayDieuPhoiXe` |
 | `gio-xay-ra.ts` | **giờ xảy ra thật khi văn phòng bấm thay** (ADR-0050 VK1-A, nhánh ADR-0049 chưa gộp): `kiemGioXayRa` — kẹp lùi theo chính sách, không tương lai, thứ tự trong chuyến (xuất bến ≤ tiến độ; đã tới ≤ sự kiện suất ở điểm; đã đón ≤ đã trả), xuất bến ≥ kết thúc thật chuyến trước cùng xe / tài xế, không sớm hơn lần sửa kế hoạch / đổi thứ tự / mở suất (so GIỜ GHI NHẬN); chỉ tám loại tiến độ được khai (`LOAI_SU_KIEN_KHAI_GIO`); mã `MA_GIO_XAY_RA` + nhãn. Route bấm thay (A15) chưa có |
 | `khoa-noi.ts` | **khoá so sánh nơi — một nguồn** (ADR-0050 VK1-B): `chuanHoaNoi` (NFC → cắt → gộp khoảng trắng → `toLowerCase`), `khoaNoi` → `L:<id điểm>` \| `T:<SHA-256 hex của chữ CHƯA che>` \| null (Web Crypto `crypto.subtle`, thử thật Node 22 = Worker ở A0 bước 15). Chỉ để so; KHÔNG vào DTO, nhật ký, bản chụp. Cửa MỘT CHIỀU: đổi khuôn = mọi `place_key` cũ lệch |
 | `dieu-phoi-trang-thai.ts` / `dieu-phoi-lich-chung.ts` | `trangThaiChang` (hình chiếu trạng thái một chặng: nháp, chưa xếp, đã xếp, chờ đón, đã đón n/N, đã trả, xong, giữ, đã bỏ + nhãn sát / quá mốc, đặt gấp, xếp một phần, vắng…); `dungLichChung` (lịch chung ngày D dựng lúc đọc: trạng thái chặng, tải + lý do giữ của chuyến chưa chạy — chính `kiemXuatBen` dự phóng xuất bến đúng giờ — cảnh báo MQ-04 lượt 1 + hai cảnh báo K-02 `NOI_HEN_KHAC_DIEM`, `GIO_XE_TOI_MUON_HON_HEN` (ADR-0050), nhãn ở `NHAN_CANH_BAO_LICH`, đơn nháp dưới mốc chờ Quản trị duyệt đặt gấp). Bộ ca mẫu xe A / xe B: `golden/dieu-phoi/`, bài `src/dieu-phoi-ca-mau.test.ts` (đáp án CHỜ CHỦ XÁC NHẬN) |

diff --git a/docs/superpowers/plans/2026-09-29-adr-0049-de-xuat-luat.md b/docs/superpowers/plans/2026-09-29-adr-0049-de-xuat-luat.md
@@ -179,6 +179,16 @@ Dòng dự kiến (người thi công điền tên kịch bản và số bước
 
 **Sửa số mục menu ở `web/CLAUDE.md:53`** (dòng "Xe (bản vẽ 00–02)"): "`trang-chu-smoke.mjs` (đếm mục thanh bên — Quản trị nay 15 mục … kịch bản khoá 16 ở `:540` / `:966` — thiếu "Nhật ký" là nợ ADR-0038, đỏ sẵn …)" → "`trang-chu-smoke.mjs` (đếm mục thanh bên — Quản trị nay **16** mục, so ĐÚNG danh sách nhãn ở `:556` (`ADMIN_NAV`) và số mục từng trang ở `:995` (Quản trị 16; trang `/audit` mở bằng Quản trị + Toàn quyền: 19). Nợ "Nhật ký" ĐÃ BỎ: ADR-0038 quyết Nhật ký chỉ Toàn quyền — sửa kịch bản 29/9, Phần B ADR-0049)". Khi có trang B1 ("Điều phối xe") thì cộng tiếp.
 
+**Vòng 3 (B1–B3 văn phòng) — thêm ba dòng vào bảng của `web/CLAUDE.md`:**
+
+| Sửa | Chạy |
+|---|---|
+| Điều phối xe (bản vẽ `…/project/01` + `dp-chua-xep`, `dp-dong-thoi-gian`, `dp-can-xu-ly`): `web/dieu-phoi.ts`, `public/dieu-phoi.html`, khối B1 của `.dp-*` ở cuối `public/app.css`, `viecCanXuLy` / `hinhDongThoiGian` / `changChuaXep` / `chuyenXepDuoc` của `src/shared/dieu-phoi-man.ts`, `nhomChon` / `moPhaLe` của `web/dieu-phoi-ui.ts`, mục con "Điều phối xe" ở `web/shell.ts` và dòng cùng tên ở `web/account.ts` (`thayDieuPhoiXe`) | `dieu-phoi-smoke.mjs` ở `docs/evidence/2026-09-29-adr-0049/kich-ban/` (10 bước, 1040 + 390, không cần mạng ngoài; Bán hàng → Quản trị → Kế toán) + `trang-chu-smoke.mjs` (đếm mục thanh bên) + `xe-smoke.mjs` (bước 2, 3), `danh-muc-giay-to-smoke.mjs`, `chinh-sach-dieu-phoi-smoke.mjs` (bước 1, 12) |
+| Chi tiết chuyến (bản vẽ 02): `web/chuyen.ts`, `public/chuyen.html`, khối B2 `.dp-ct-*` / `.dp-stop*` / `.dp-cond*` / `.dp-log*` của `public/app.css`, `dieuKienXuatBen` / `nhanDiem` / `dongNhatKy` / `cauKhoaMoc` của `src/shared/dieu-phoi-man.ts`, `moHuyChuyen` của `web/dieu-phoi-ui.ts` | `chuyen-smoke.mjs` (8 bước, 1040 + 390; Bán hàng → Quản trị → Kế toán) |
+| Tạo / sửa chuyến (bản vẽ 03): `web/chuyen-sua.ts`, `public/chuyen-sua.html`, khối `.dp-cx-*` của `public/app.css`, `truongLoiChuyen` / `idChoLenh` của `src/shared/dieu-phoi-man.ts`, `taoLenh` / `docLoiLenh` của `web/dieu-phoi-ui.ts`, dữ liệu thử `dungDuLieuDieuPhoi` của `dp-lib.mjs` | `chuyen-sua-smoke.mjs` (12 bước, 1040 + 390; Bán hàng → Quản trị → Kế toán) + hai kịch bản trên (cùng dữ liệu thử) |
+
+**Số mục menu ở `web/CLAUDE.md:53` (sau B1):** Quản trị **17** mục (thêm "Điều phối xe" dưới "Vận chuyển" — `ADMIN_NAV` ở `trang-chu-smoke.mjs:541`), trang `/audit` (Quản trị + Toàn quyền) **20**; Bán hàng, Kế toán nay có nhóm QUẢN TRỊ với "Vận chuyển › Điều phối xe" (Q-B-4).
+
 **Thêm vào dòng B7 (mốc 6 giờ + đặt gấp) ở bảng trên:** `moc-chua-co-smoke.mjs` (6 bước — 503 `moc_toi_thieu_chua_co`; D1 tạm của kịch bản xoá trigger + dòng chính sách để có "chưa có chính sách"; chỉ đụng D1 tạm). **Thêm vào dòng B8:** `chinh-sach-dieu-phoi-smoke.mjs` nay 14 bước (bước 9b — R-P22, lý do hệ thống không có nút "Ngưng" và câu 409 `ly_do_he_thong`).
 
 ## Mục 6 — `src/CLAUDE.md` (luật theo thư mục)
